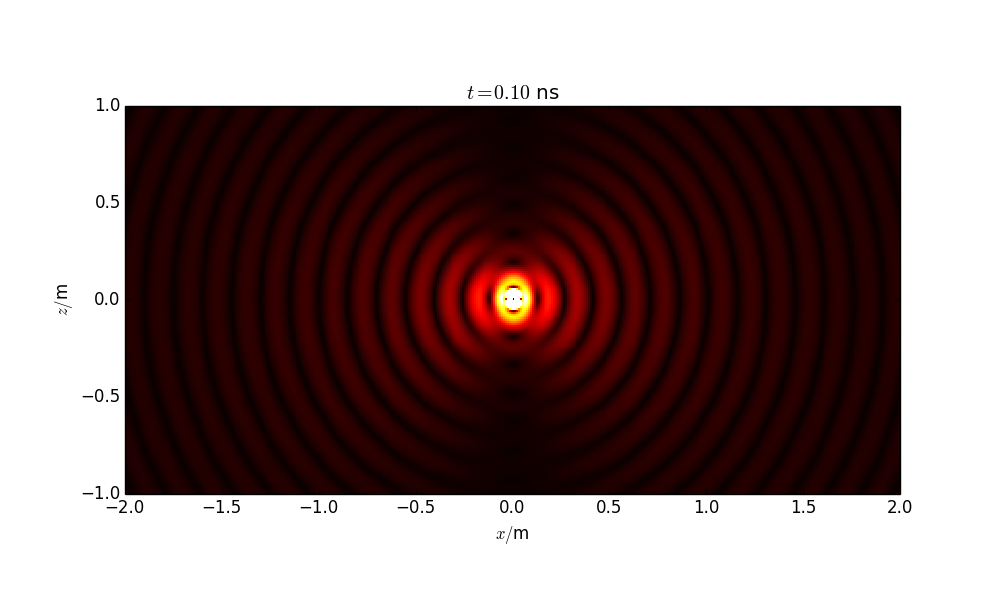
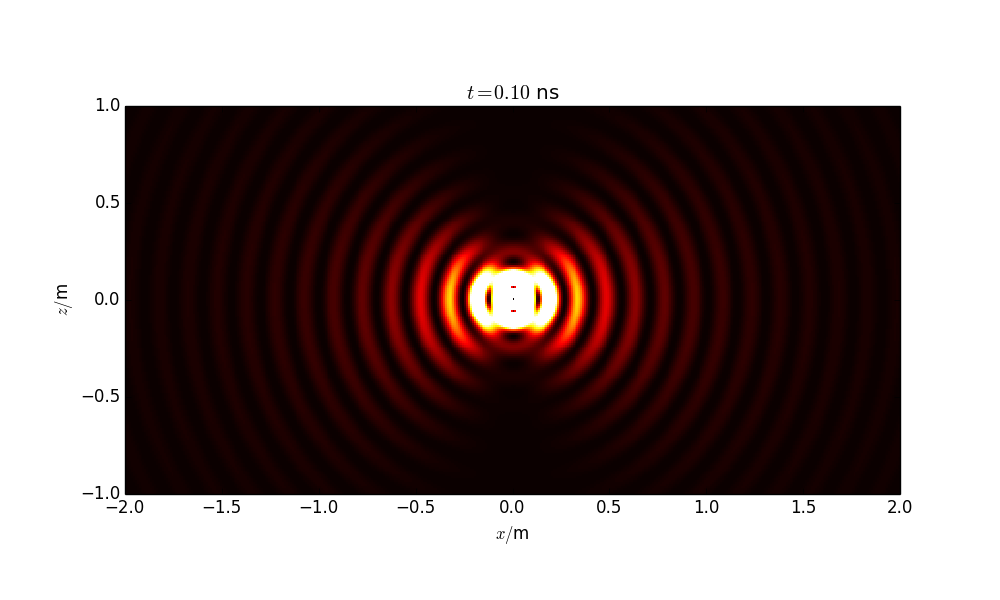
Bug and error fixes

Changed region(s): [[0.372, 0.39, 0.651, 0.63]]

diff --git a/dipole.py b/dipole.py
@@ -187,7 +187,7 @@ if __name__ == "__main__":
 
   freq=numpy.array([1000e6])
   #dipole moment
-  p=numpy.array([0,0,1e-7])
+  p=numpy.array([0,0,1e-13])
   R=numpy.array([0,0,0])
   #dipole phases
   phases_dip=0
@@ -212,7 +212,7 @@ if __name__ == "__main__":
     #Radiation diagram
     pcolor(x,z,P[:,:].T,cmap='hot')
     fname = 'img_%s' %(k)
-    clim(0,5000000)
+    clim(0,2)
     axis('scaled')
     xlim(-xmax,xmax)
     ylim(-zmax,zmax)
@@ -222,4 +222,3 @@ if __name__ == "__main__":
     print 'Saving frame', fname
     fig.savefig(fname+'.png',bbox='tight')
     clf()
-  close()
